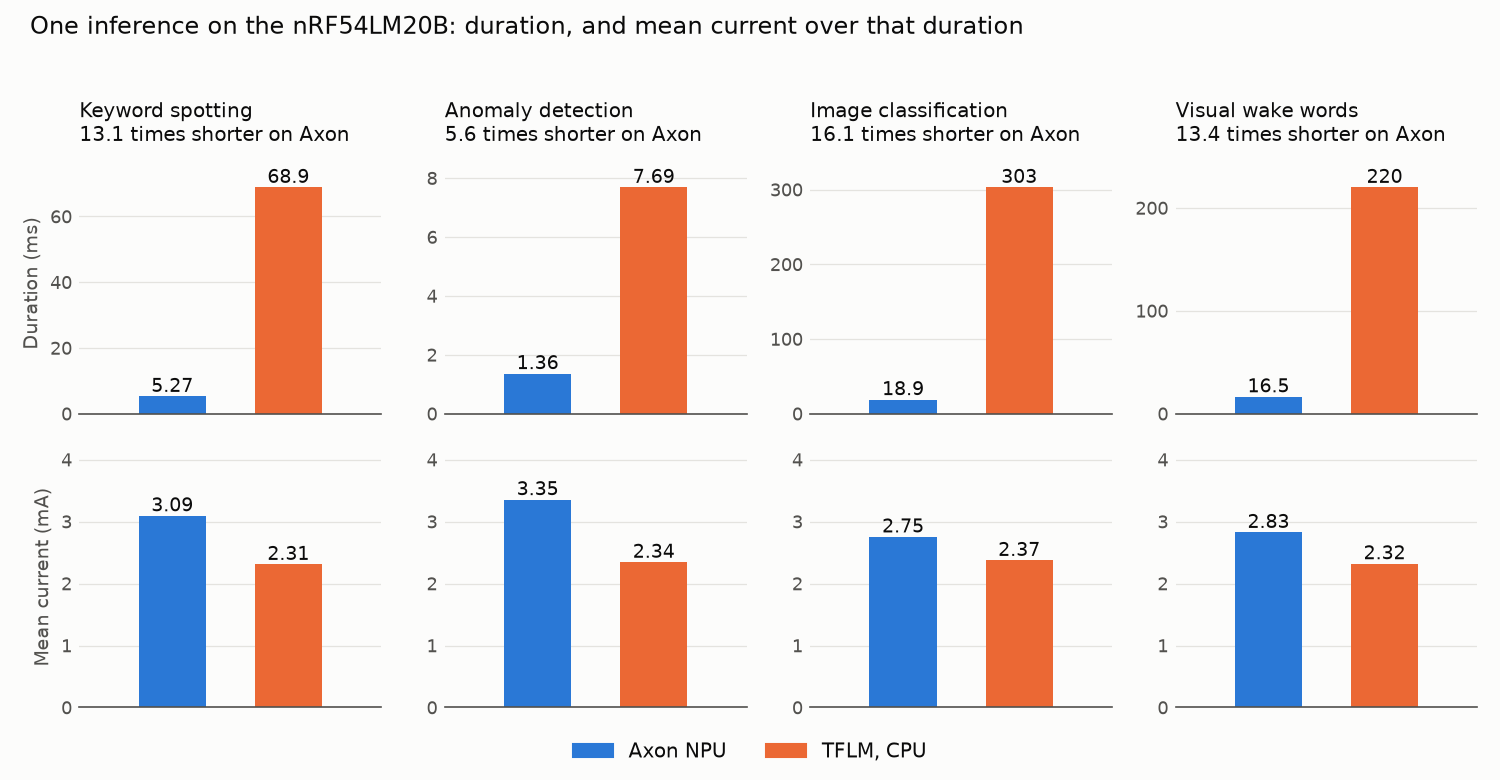
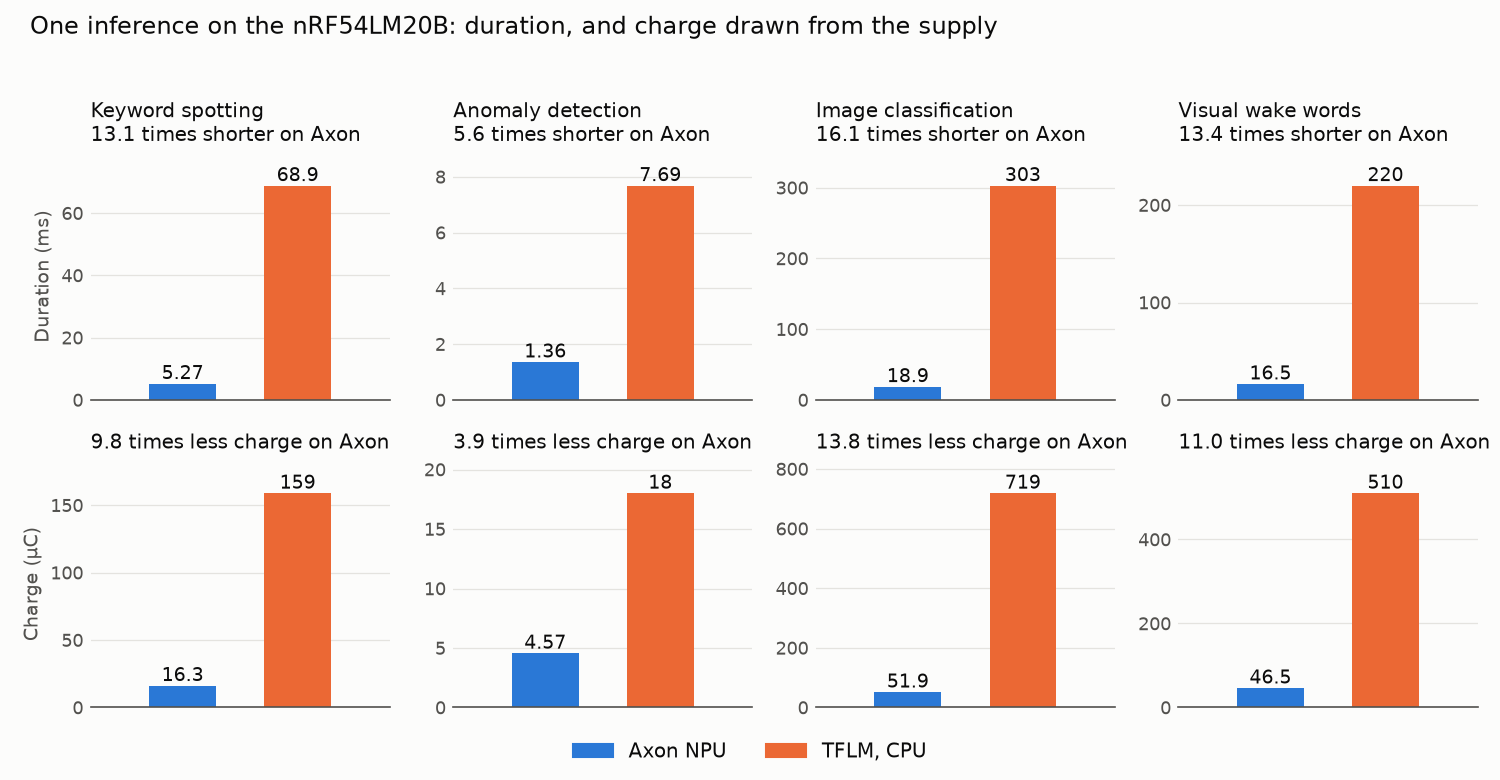
bench: overview figure of duration and charge, inferences per mAh

diff --git a/bench/plot.py b/bench/plot.py
@@ -61,30 +61,30 @@ def bars(index, unit, what, out):
 
 
 def overview(out):
-    """Duration and mean current of one inference: one column per model, bars only."""
+    """Duration and charge of one inference: one column per model, bars only."""
     fig, axes = plt.subplots(2, len(MODELS), figsize=(10, 5.2), facecolor=SURFACE)
     for col, (model, title) in enumerate(MODELS.items()):
         widths, charges = zip(*(report(backend, model) for backend in BACKENDS))
-        rows = ((widths, "ms", f"{title}\n{widths[1] / widths[0]:.1f} times shorter on Axon"),
-                ([q / w for q, w in zip(charges, widths)], "mA", ""))
-        for ax, (values, unit, label) in zip(axes[:, col], rows):
+        rows = ((widths, f"{title}\n{widths[1] / widths[0]:.1f} times shorter on Axon"),
+                (charges, f"{charges[1] / charges[0]:.1f} times less charge on Axon"))
+        for ax, (values, label) in zip(axes[:, col], rows):
             drawn = ax.bar(range(2), values, width=0.58, color=[c for _, c in BACKENDS.values()])
             for bar, value in zip(drawn, values):
                 ax.text(bar.get_x() + bar.get_width() / 2, value,
                         f"{value:,.0f}" if value >= 100 else f"{value:.3g}",
                         ha="center", va="bottom", fontsize=9, color=INK)
             ax.set_title(label, fontsize=9.5, color=INK, loc="left")
-            ax.set_ylim(0, 4.2 if unit == "mA" else max(values) * 1.15)
+            ax.set_ylim(0, max(values) * 1.15)
             ax.set_xlim(-0.8, 1.8)
             ax.set_xticks([])
             ax.locator_params(axis="y", nbins=5)
             style(ax)
     axes[0, 0].set_ylabel("Duration (ms)", fontsize=9, color=MUTED)
-    axes[1, 0].set_ylabel("Mean current (mA)", fontsize=9, color=MUTED)
+    axes[1, 0].set_ylabel("Charge (µC)", fontsize=9, color=MUTED)
     fig.legend(handles=[plt.Rectangle((0, 0), 1, 1, color=c) for _, c in BACKENDS.values()],
                labels=[n for n, _ in BACKENDS.values()], loc="lower center", ncol=2, frameon=False,
                fontsize=9.5, labelcolor=INK)
-    fig.suptitle("One inference on the nRF54LM20B: duration, and mean current over that duration",
+    fig.suptitle("One inference on the nRF54LM20B: duration, and charge drawn from the supply",
                  fontsize=11.5, color=INK, x=0.02, ha="left")
     fig.tight_layout(rect=(0, 0.05, 1, 0.96))
     fig.savefig(HERE / out, dpi=150)

diff --git a/bench/README.md b/bench/README.md
@@ -26,19 +26,23 @@ header, at 100,000 samples per second. The kit's supply voltage is set to 3.3 V 
 [Board Configurator](https://docs.nordicsemi.com/bundle/nrf-connect-board-configurator/page/index.html)
 app, and the captures are given `--vdd 3.3`. Each capture starts from a power cycle.
 
-| Model | Backend | Time | Mean current | Charge, median | Charge, mean ± sd | Regions |
-|---|---|---:|---:|---:|---:|---:|
-| Keyword spotting | Axon | 5.270 ms | 3,228 µA | 16.30 µC | 17.0 ± 1.8 µC | 207 |
-| | TFLM | 68.854 ms | 2,309 µA | 158.97 µC | 158.98 ± 0.10 µC | 205 |
-| Anomaly detection | Axon | 1.362 ms | 3,382 µA | 4.57 µC | 4.61 ± 0.27 µC | 222 |
-| | TFLM | 7.686 ms | 2,348 µA | 18.014 µC | 18.049 ± 0.096 µC | 423 |
-| Image classification | Axon | 18.868 ms | 2,757 µA | 51.93 µC | 52.02 ± 0.98 µC | 166 |
-| | TFLM | 303.001 ms | 2,373 µA | 719.07 µC | 719.03 ± 0.36 µC | 69 |
-| Visual wake words | Axon | 16.451 ms | 2,823 µA | 46.48 µC | 46.43 ± 0.65 µC | 172 |
-| | TFLM | 219.995 ms | 2,322 µA | 510.3 µC | 510.9 ± 1.0 µC | 90 |
+| Model | Backend | Time | Mean current | Charge, median | Inferences per mAh | Charge, mean ± sd | Regions |
+|---|---|---:|---:|---:|---:|---:|---:|
+| Keyword spotting | Axon | 5.270 ms | 3,228 µA | 16.30 µC | 220,900 | 17.0 ± 1.8 µC | 207 |
+|  | TFLM | 68.854 ms | 2,309 µA | 158.97 µC | 22,600 | 158.98 ± 0.10 µC | 205 |
+| Anomaly detection | Axon | 1.362 ms | 3,382 µA | 4.57 µC | 787,700 | 4.61 ± 0.27 µC | 222 |
+|  | TFLM | 7.686 ms | 2,348 µA | 18.014 µC | 199,800 | 18.049 ± 0.096 µC | 423 |
+| Image classification | Axon | 18.868 ms | 2,757 µA | 51.93 µC | 69,300 | 52.02 ± 0.98 µC | 166 |
+|  | TFLM | 303.001 ms | 2,373 µA | 719.07 µC | 5,000 | 719.03 ± 0.36 µC | 69 |
+| Visual wake words | Axon | 16.451 ms | 2,823 µA | 46.48 µC | 77,500 | 46.43 ± 0.65 µC | 172 |
+|  | TFLM | 219.995 ms | 2,322 µA | 510.3 µC | 7,100 | 510.9 ± 1.0 µC | 90 |
 
 A region is one inference: the stretch where the marker is high. "mean ± sd" is the mean and the
 standard deviation of the charge over the regions of one capture.
+
+The charge is what one inference draws from the supply. One mAh is 3,600,000 µC, so the
+inferences per mAh are that number divided by the median charge. They count the inference alone,
+not the sleep between two inferences or anything else the application does.
 
 | Model | Time, TFLM / Axon | Charge, TFLM / Axon |
 |---|---:|---:|
@@ -88,7 +92,8 @@ captures themselves, 47 to 105 MB each, are not in the repository.
   [limitations](https://github.com/rdagher/zephyr-ppk2/blob/main/docs/limitations.md#wake-up-bursts).
 - No energy is given. A PPK2 measures current, and the charge follows from it with no assumption.
   An energy needs the supply voltage, which the capture does not contain. At a constant voltage
-  the energy ratio is the charge ratio.
+  the energy ratio is the charge ratio. [MLPerf Tiny](https://github.com/mlcommons/tiny) reports the
+  energy per inference: here it is the charge times 3.3 V, the supply voltage set on the kit.
 - The measurement firmware has no UART: [`quiet.conf`](quiet.conf).
 
 ## Output check

diff --git a/README.md b/README.md
@@ -7,9 +7,9 @@ Two Zephyr apps for the Axon NPU of the nRF54LM20B, on the nRF54LM20 DK:
 
 The models are the four of [MLPerf Tiny](https://github.com/mlcommons/tiny). The [Edge AI Add-on](https://github.com/nrfconnect/sdk-edge-ai) ships them compiled, with three test vectors each, and the app includes those headers from the west workspace. This repository contains no add-on file.
 
-![Duration and mean current of one inference of the four models, on the NPU and on the CPU](bench/results/overview.png)
+![Duration and charge of one inference of the four models, on the NPU and on the CPU](bench/results/overview.png)
 
-On the NPU an inference is 5.6 to 16.1 times shorter, at a mean current 0.4 to 1.0 mA higher. Its charge is 3.9 to 13.8 times lower. See [bench/README.md](bench/README.md) for the measurement and its limits.
+On the NPU an inference is 5.6 to 16.1 times shorter, and it draws 3.9 to 13.8 times less charge from the supply. See [bench/README.md](bench/README.md) for the measurement and its limits.
 
 ## Requirements
 
